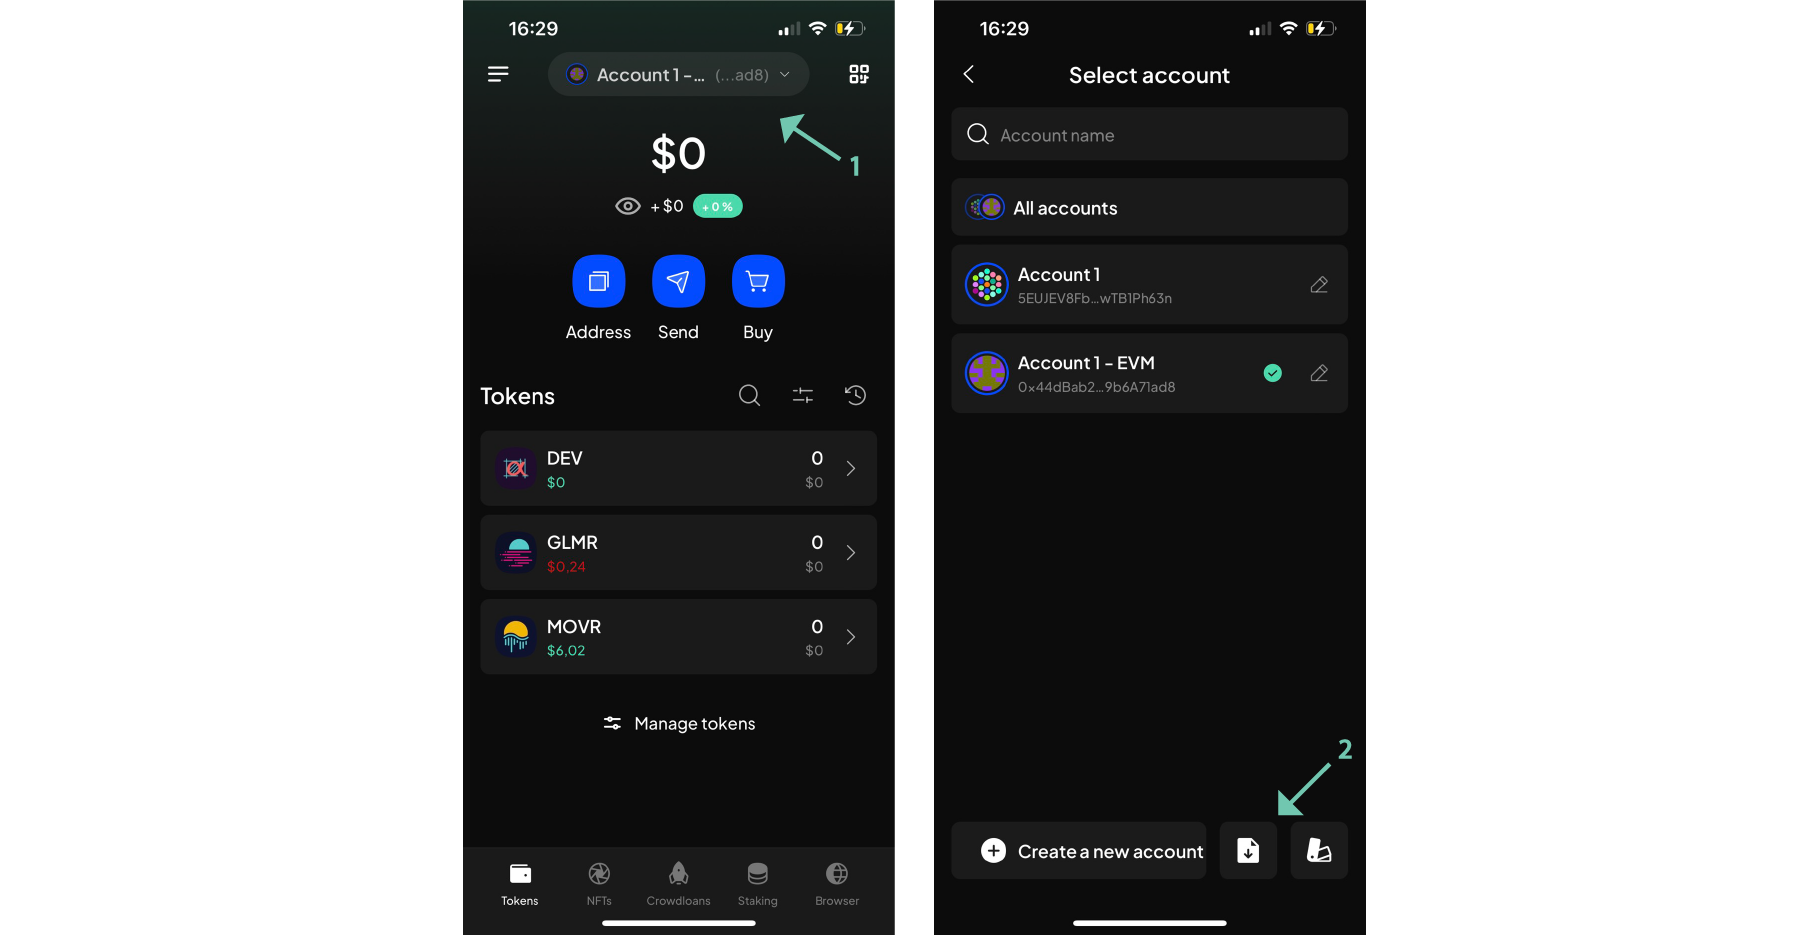
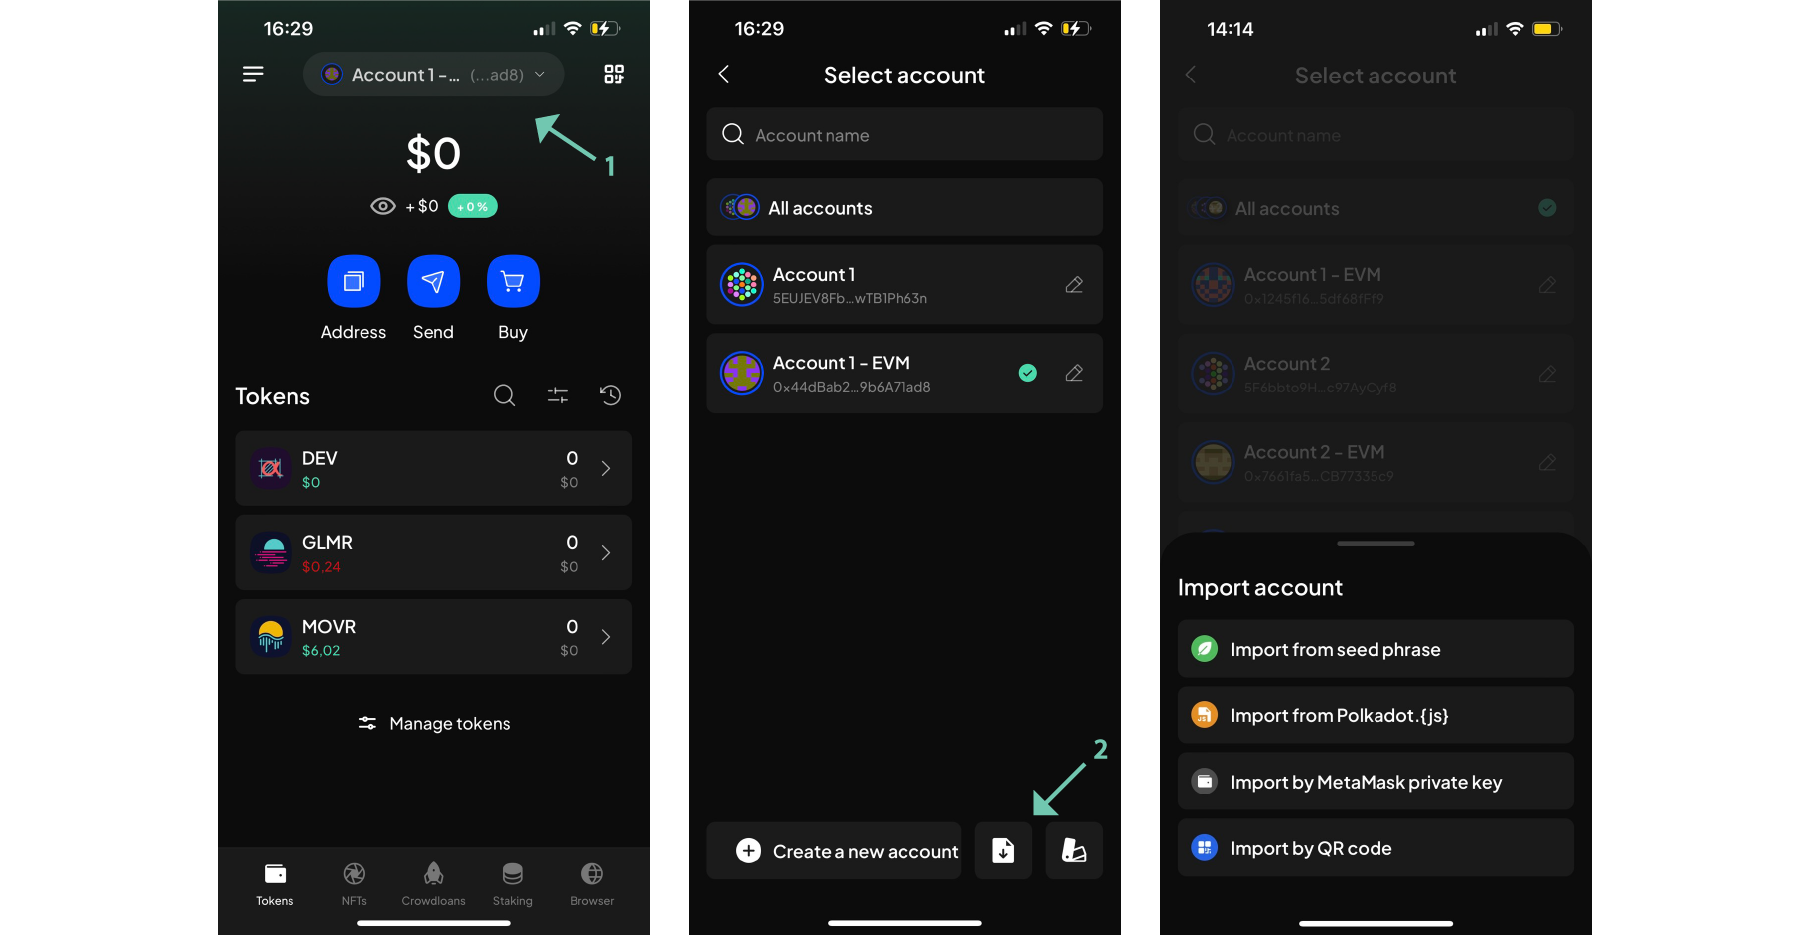
Fix import

diff --git a/tokens/connect/subwallet.md b/tokens/connect/subwallet.md
@@ -98,10 +98,13 @@ Next, you'll be able to provide the relevant seed phrase, private key, JSON file
 Once you have imported your account to SubWallet, you can also import additional accounts with the following steps:
 
 1. Click on the account dropdown
-2. Select one of the options from the bottom of the screen. You can click **Import account**, choose whether to import using seed phrase, JSON file, MetaMask private key or QR code, then repeat the process you just went through.
+2. Select one of the options from the bottom of the screen. You can click **Import account**.
 
 ![Import additional accounts on browser extension.](/images/tokens/connect/subwallet/subwallet-37.png)
 
+3. Choose whether to import using seed phrase, JSON file, MetaMask private key or QR code, then repeat the process you just went through.
+
+![Import additional accounts on browser extension.](/images/tokens/connect/subwallet/subwallet-40.png)
 
 
 ### Connect SubWallet to Moonbeam {: #connect-subwallet-to-moonbeam-extension }
@@ -269,7 +272,8 @@ Next, you'll be able to provide the relevant seed phrase, private key, JSON file
 Once you have imported your account to SubWallet, you can also import additional accounts with the following steps:
 
 1. Click on the account dropdown
-2. Select one of the options from the bottom of the screen. You can click **Import account**, choose whether to import using seed phrase, JSON file, MetaMask private key or QR code, then repeat the process you just went through.
+2. Select one of the options from the bottom of the screen. You can click **Import account**
+3. Choose whether to import using seed phrase, JSON file, MetaMask private key or QR code, then repeat the process you just went through.
 
 ![Import additional accounts on Mobile.](/images/tokens/connect/subwallet/subwallet-36.png)
 
